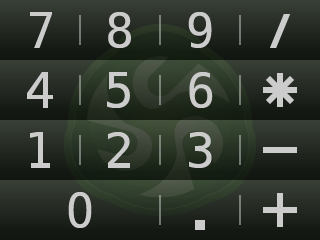
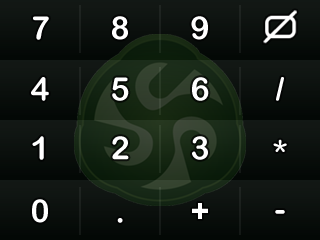
"Hide Buttons" functionality

diff --git a/src/platform/3ds/3ds_ui.cpp b/src/platform/3ds/3ds_ui.cpp
@@ -65,6 +65,8 @@ CtrUi::CtrUi(int width, int height, const Game_ConfigVideo& cfg) : BaseUi(cfg)
 {
 	SetIsFullscreen(true);
 
+	show_touchscreen = true;
+
 	fullscreen = false;
 	trigger_state = false;
 
@@ -197,9 +199,9 @@ void CtrUi::ProcessEvents() {
 	// Touchscreen support
 	u32 keys_tbl[16] = {
 		Input::Keys::N7, Input::Keys::N8, Input::Keys::N9, Input::Keys::KP_DIVIDE,
-		Input::Keys::N4, Input::Keys::N5, Input::Keys::N6, Input::Keys::KP_MULTIPLY,
-		Input::Keys::N1, Input::Keys::N2, Input::Keys::N3, Input::Keys::KP_SUBTRACT,
-		Input::Keys::N0, Input::Keys::N0, Input::Keys::KP_PERIOD, Input::Keys::KP_ADD
+		Input::Keys::N4, Input::Keys::N5, Input::Keys::N6, Input::Keys::KP_DIVIDE,
+		Input::Keys::N1, Input::Keys::N2, Input::Keys::N3, Input::Keys::KP_MULTIPLY,
+		Input::Keys::N0, Input::Keys::KP_PERIOD, Input::Keys::KP_ADD, Input::Keys::KP_SUBTRACT
 	};
 
 	if (touch_state == 1) {
@@ -211,15 +213,33 @@ void CtrUi::ProcessEvents() {
 		keys[keys_tbl[i]] = false;
 
 	if (input & KEY_TOUCH) {
-		touch_state = 1;
-		touchPosition pos;
-		hidTouchRead(&pos);
-		u8 col = pos.px / button_width;
-		u8 row = pos.py / button_height;
-		touch_x = pos.px;
-		touch_y = pos.py;
+		if(show_touchscreen) {
+			touch_state = 1;
+			touchPosition pos;
+			hidTouchRead(&pos);
+			u8 col = pos.px / button_width;
+			u8 row = pos.py / button_height;
 
-		keys[keys_tbl[col + (row * 4)]] = true;
+			if (row == 0 && col == 3) { // Turn off touchscreen for top right button
+				if (R_SUCCEEDED(gspLcdInit())) {
+					show_touchscreen = false;
+					GSPLCD_PowerOffBacklight(GSPLCD_SCREEN_BOTTOM);
+					gspLcdExit();
+				}
+
+			} else {
+				keys[keys_tbl[col + (row * 4)]] = true;
+			}
+
+			touch_x = pos.px;
+			touch_y = pos.py;
+		} else {
+			if (R_SUCCEEDED(gspLcdInit())) {
+				show_touchscreen = true;
+				GSPLCD_PowerOnBacklight(GSPLCD_SCREEN_BOTTOM);
+				gspLcdExit();
+			}
+		}
 	}
 #endif
 }
@@ -306,19 +326,11 @@ void CtrUi::UpdateDisplay() {
 		u8 pos_x = col * button_width;
 		u8 pos_y = row * button_height;
 
-		// "0" is handled specially
-		u8 draw_width = button_width;
-		if (col < 2 && row == 3) {
-			draw_width *= 2;
-			if (col == 1)
-				pos_x = 0;
-		}
-
 		// darkened button with outline
-		C2D_DrawRectSolid(pos_x + 2, pos_y + 2, 0.5f, draw_width - 2, button_height - 2, C2D_Color32f(0, 0, 0, 0.2f));
-		C2D_DrawRectSolid(pos_x + draw_width - 2, pos_y, 0.5f, 2, button_height, white); // right
-		C2D_DrawRectSolid(pos_x, pos_y + button_height - 2, 0.5f, draw_width, 2, white); // bottom
-		C2D_DrawRectSolid(pos_x, pos_y, 0.5f, draw_width, 2, gray); // top
+		C2D_DrawRectSolid(pos_x + 2, pos_y + 2, 0.5f, button_width - 2, button_height - 2, C2D_Color32f(0, 0, 0, 0.2f));
+		C2D_DrawRectSolid(pos_x + button_width - 2, pos_y, 0.5f, 2, button_height, white); // right
+		C2D_DrawRectSolid(pos_x, pos_y + button_height - 2, 0.5f, button_width, 2, white); // bottom
+		C2D_DrawRectSolid(pos_x, pos_y, 0.5f, button_width, 2, gray); // top
 		C2D_DrawRectSolid(pos_x, pos_y, 0.5f, 2, button_height, gray); // left
 	}
 #endif

diff --git a/src/platform/3ds/3ds_ui.h b/src/platform/3ds/3ds_ui.h
@@ -71,6 +71,7 @@ private:
 	C2D_SpriteSheet assets;
 	bool fullscreen;
 	bool trigger_state;
+	bool show_touchscreen;
 
 #ifdef SUPPORT_AUDIO
 	std::unique_ptr<AudioInterface> audio_;
